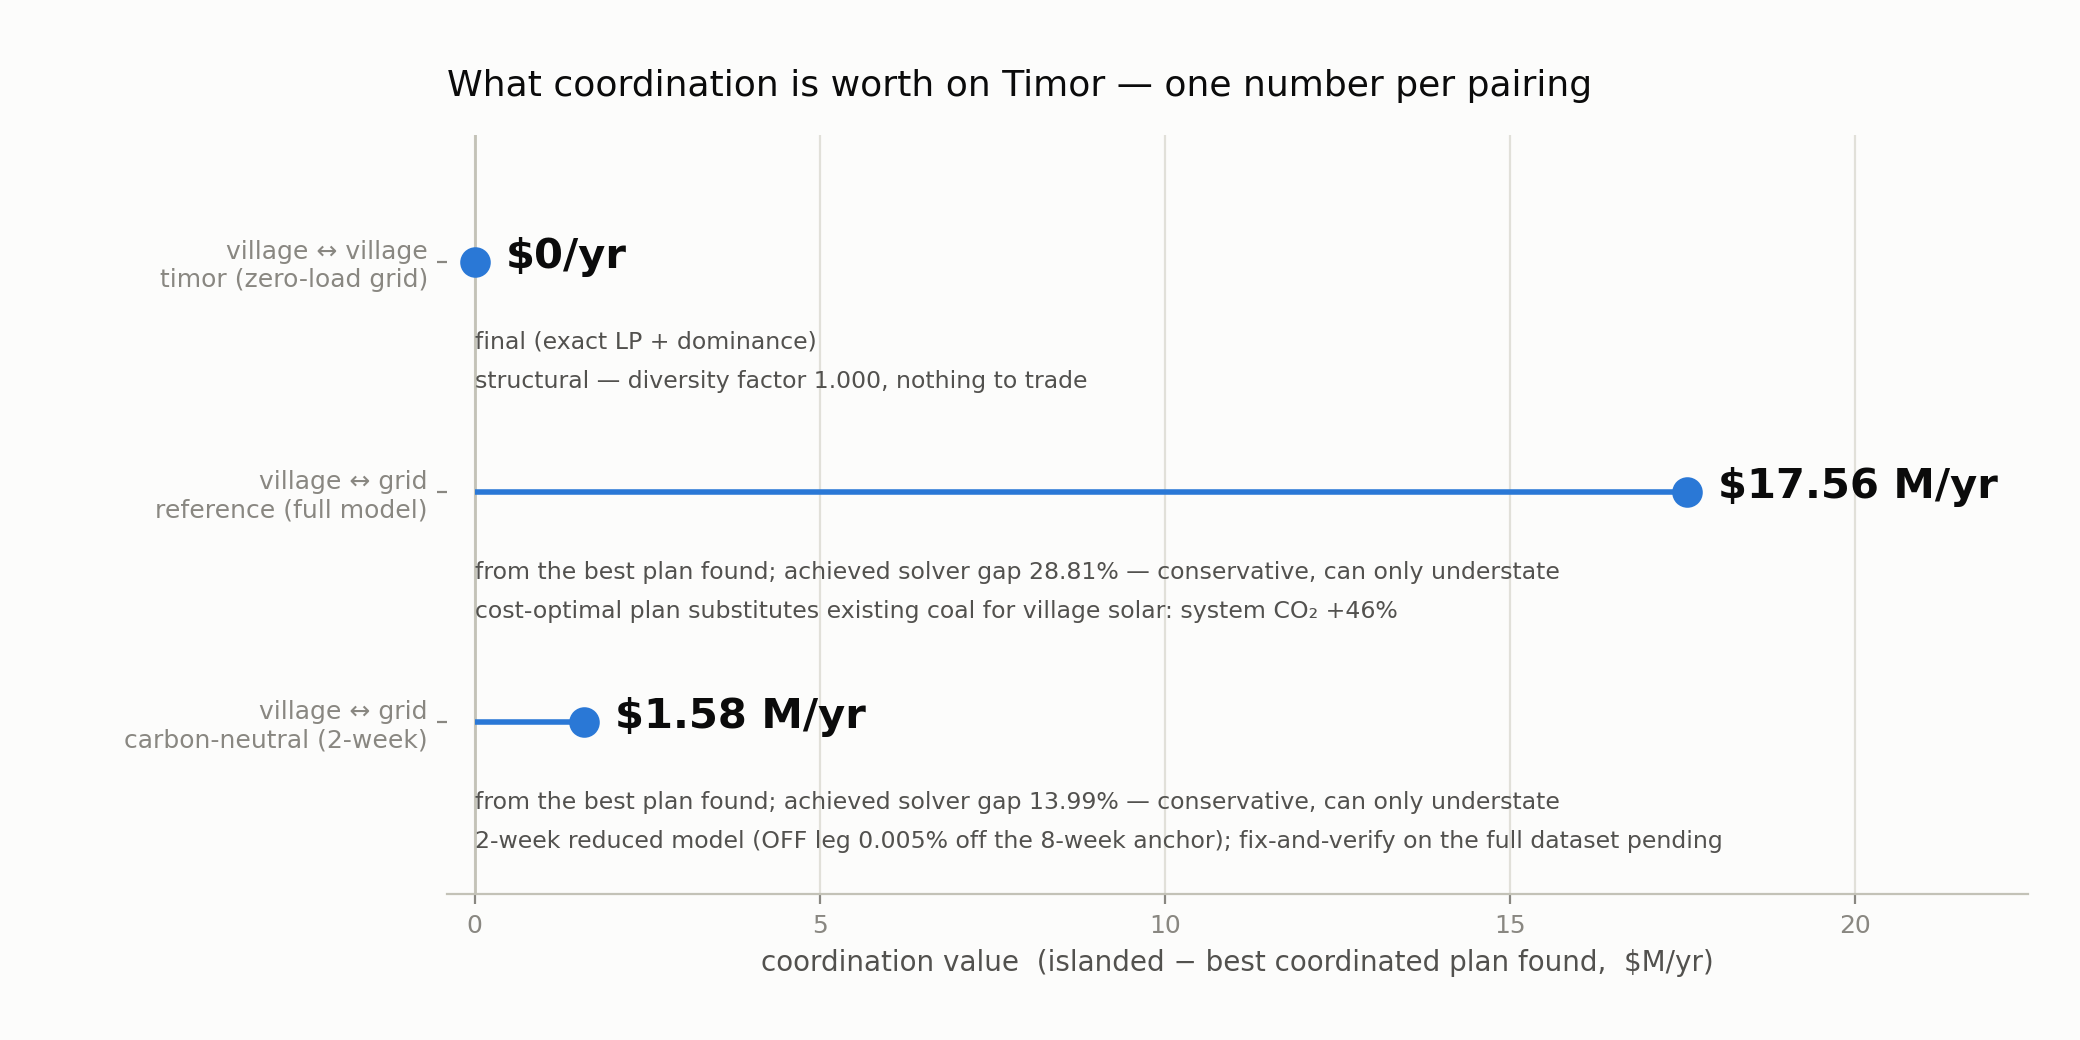
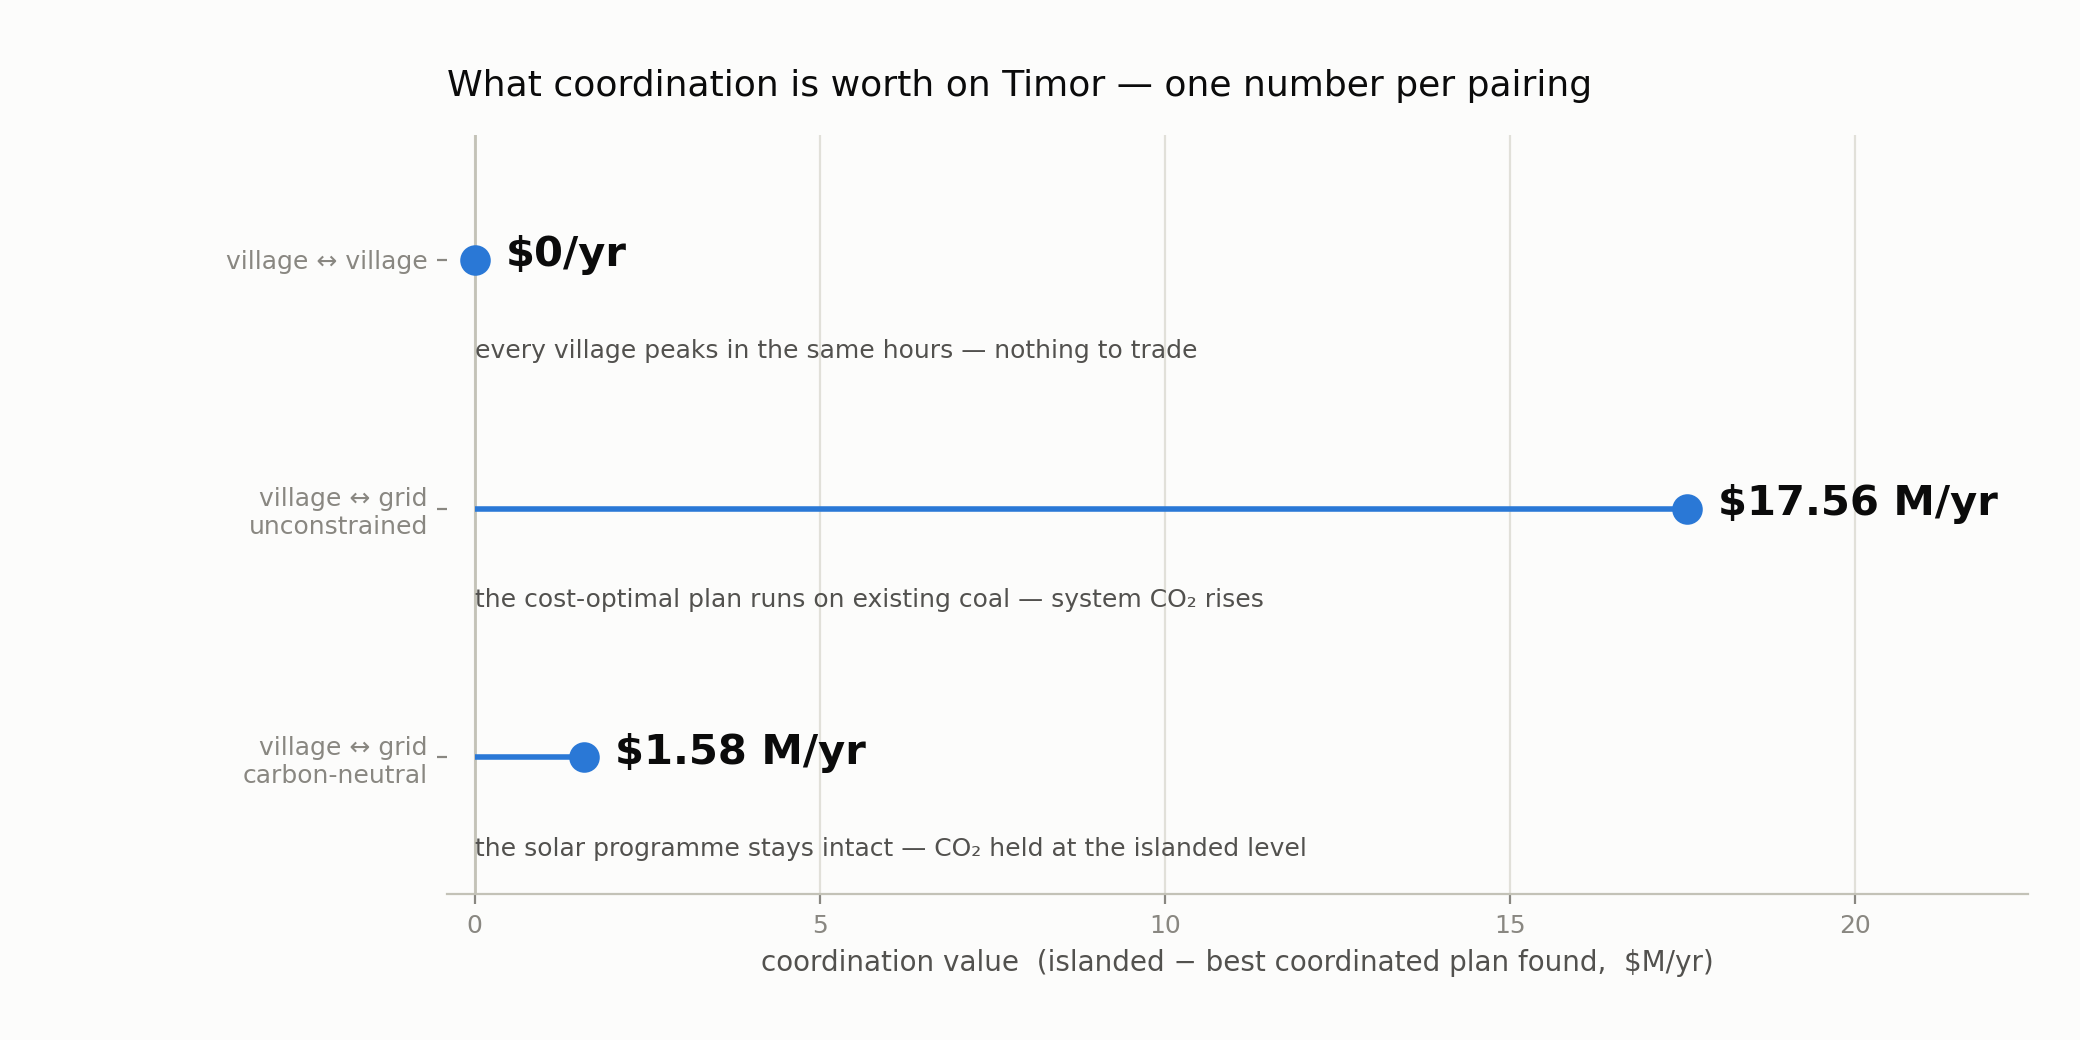
feat(report): deck-clean figures — all footnotes and model-form notes removed
Per the presentation decision: the figures carry no methodology text at all — no
achieved gaps, no 2-week-model tags, no "conservative/can only understate", no
construction notes, no source lines. Titles, the numbers, and at most one
plain-language content line per element remain; every caveat moves to the slide
deck and stays recorded in RUN_LOG.md and docs/figure_plan_timor.md, which are
unchanged and remain the audit trail.

- headline_coordination: per-row methodology sub-captions replaced with one
  plain content line each ("every village peaks in the same hours", "the
  cost-optimal plan runs on existing coal", "the solar programme stays intact");
  y-labels lose "(full model)" / "(2-week)"
- solar_buildout: per-bar gap lines and the 2-week tag removed
- cost_stack / recipe_and_diesel: run-id and "exact LP, no MIP gap" clauses out
  of the subtitles; captions removed
- coordination_bounds, diversity_panels, load_timing, three_regimes,
  cost_vs_co2, village_supply, connection_map, village_map: caption lines
  removed (bounds keeps its proven/unresolved legend — that is its content)
- fixed a literal backslash-dollar in the cost_stack subtitle (matplotlib
  renders a lone \$ raw; escaping is only needed when two $ would open a
  mathtext span)

All 12 rebuilt and visually inspected. Suite green (119 passed).

diff --git a/tools/plot_headline_coordination.py b/tools/plot_headline_coordination.py
@@ -150,24 +150,17 @@ def main(argv=None):
     ax.plot([0], [Y1], "o", ms=10, color=BLUE, zorder=4)
     ax.text(0.45, Y1 + 0.02, "$0/yr", fontsize=15, fontweight="bold",
             color=INK, va="center")
-    ax.text(0.0, Y1 - 0.30, "final (exact LP + dominance)",
-            fontsize=8.5, color=INK_2, va="top")
-    ax.text(0.0, Y1 - 0.47, "structural — diversity factor 1.000, nothing to trade",
-            fontsize=8.5, color=INK_2, va="top")
+    ax.text(0.0, Y1 - 0.32, "every village peaks in the same hours — nothing to trade",
+            fontsize=9, color=INK_2, va="top")
 
     # -- row 2: village <-> grid, reference --
     ax.hlines(Y2, 0, ref_val, color=BLUE, lw=2, zorder=3)
     ax.plot([ref_val], [Y2], "o", ms=10, color=BLUE, zorder=4)
     ax.text(ref_val + 0.45, Y2 + 0.02, f"${ref_val:.2f} M/yr",
             fontsize=15, fontweight="bold", color=INK, va="center")
-    ax.text(0.0, Y2 - 0.30,
-            f"from the best plan found; achieved solver gap {ref_gap:.2f}% — "
-            "conservative, can only understate",
-            fontsize=8.5, color=INK_2, va="top")
-    ax.text(0.0, Y2 - 0.47,
-            "cost-optimal plan substitutes existing coal for village solar: "
-            "system CO₂ +46%",
-            fontsize=8.5, color=INK_2, va="top")
+    ax.text(0.0, Y2 - 0.32,
+            "the cost-optimal plan runs on existing coal — system CO₂ rises",
+            fontsize=9, color=INK_2, va="top")
 
     # -- row 3: village <-> grid, carbon-neutral --
     if clean_landed:
@@ -175,11 +168,9 @@ def main(argv=None):
         ax.plot([clean_val], [Y3], "o", ms=10, color=BLUE, zorder=4)
         ax.text(clean_val + 0.45, Y3 + 0.02, f"${clean_val:.2f} M/yr",
                 fontsize=15, fontweight="bold", color=INK, va="center")
-        gap_txt = (f"achieved solver gap {clean_gap:.2f}% — conservative, "
-                   "can only understate" if clean_gap is not None
-                   else "gap unavailable — solver log missing a final Best objective line")
-        ax.text(0.0, Y3 - 0.30, f"from the best plan found; {gap_txt}",
-                fontsize=8.5, color=INK_2, va="top")
+        ax.text(0.0, Y3 - 0.32,
+                "the solar programme stays intact — CO₂ held at the islanded level",
+                fontsize=9, color=INK_2, va="top")
     else:
         ax.hlines(Y3, 0, clean_val, color=MUTED, lw=1.4,
                   linestyle=(0, (4, 3)), zorder=3)
@@ -188,22 +179,18 @@ def main(argv=None):
         ax.text(clean_val + 0.45, Y3 + 0.02,
                 f"solving — floor ${clean_val:.1f} M/yr so far",
                 fontsize=12, color=MUTED, va="center")
-        ax.text(0.0, Y3 - 0.30,
-                "incumbent still improving; the floor can only rise",
-                fontsize=8.5, color=MUTED, va="top")
-    ax.text(0.0, Y3 - 0.47,
-            "2-week reduced model (OFF leg 0.005% off the 8-week anchor); "
-            "fix-and-verify on the full dataset pending",
-            fontsize=8.5, color=MUTED if not clean_landed else INK_2, va="top")
+        ax.text(0.0, Y3 - 0.32,
+                "still solving — the floor can only rise",
+                fontsize=9, color=MUTED, va="top")
 
     # axes / chrome
     ax.set_yticks([Y3, Y2, Y1])
-    ax.set_yticklabels(["village ↔ grid\ncarbon-neutral (2-week)",
-                        "village ↔ grid\nreference (full model)",
-                        "village ↔ village\ntimor (zero-load grid)"],
+    ax.set_yticklabels(["village ↔ grid\ncarbon-neutral",
+                        "village ↔ grid\nunconstrained",
+                        "village ↔ village"],
                        fontsize=10, color=INK)
     ax.set_xlim(-0.4, 22.5)
-    ax.set_ylim(-0.75, 2.55)
+    ax.set_ylim(-0.55, 2.50)
     ax.set_xticks([0, 5, 10, 15, 20])
     ax.set_xlabel("coordination value  (islanded − best coordinated plan found,  $M/yr)",
                   fontsize=10, color=INK_2)

diff --git a/tools/plot_solar_buildout.py b/tools/plot_solar_buildout.py
@@ -87,7 +87,7 @@ def main(argv=None):
         dict(label="coordinated, unconstrained\n(DMO coal available)",
              run=os.path.join(R, "gridvillage_timor__marketfix_2030_reference__ucrelax"),
              note=None, gap=achieved_gap(os.path.join(REPO, "jobs", "ucr_marketfix_gridvillage", "solve.log"))),
-        dict(label="coordinated, carbon-neutral\n(CO2 capped at islanded level · 2-week model)",
+        dict(label="coordinated, carbon-neutral\n(CO2 capped at islanded level)",
              run=os.path.join(R, "gridvillage_timor__marketfix2w_2030_clean"),
              note="2-week model; fix-and-verify pending",
              gap=achieved_gap(os.path.join(REPO, "jobs", "w2c_gridvillage", "solve.log"))),
@@ -115,8 +115,6 @@ def main(argv=None):
         pct100 = total / 100_000 * 100
         kwhh = total * 1000 / HOUSEHOLDS
         sub = f"{pct100:.2f}% of 100 GW · {kwhh:.2f} kW/household"
-        if r["gap"] is not None:
-            sub += f"\nachieved gap {r['gap']:.1f}% — conservative"
         ax.text(i, total + 34, f"{total:,.0f} MW", ha="center", va="bottom",
                 fontsize=13, color=INK, fontweight="bold")
         ax.text(i, total + 28, sub, ha="center", va="top", fontsize=8, color=INK2)
@@ -138,10 +136,6 @@ def main(argv=None):
 
     ax.set_title("Solar buildout on Timor under three planning regimes",
                  fontsize=13, color=INK, loc="left", pad=12)
-    fig.text(0.08, 0.025,
-             "the middle bar is the warning: with cheap coal and no carbon constraint, "
-             "least-cost coordination dismantles ~90% of the village solar programme",
-             fontsize=7.5, color=MUTED, va="bottom")
 
     os.makedirs(os.path.dirname(args.out), exist_ok=True)
     fig.savefig(args.out, facecolor=SURFACE)

diff --git a/tools/plot_coordination_bounds.py b/tools/plot_coordination_bounds.py
@@ -150,8 +150,7 @@ def main(argv=None):
 
     # mechanism notes (secondary ink)
     ax.text(0.0, 1 - 0.52, "value driven by cheap existing coal, not load "
-            "complementarity — the grid series is a netting construction "
-            "(see load_timing)", fontsize=8.5, color=INK_2, va="top")
+            "complementarity", fontsize=8.5, color=INK_2, va="top")
     ax.text(0.0, 0 - 0.52, "village peaks are simultaneous (diversity factor 1.000)",
             fontsize=8.5, color=INK_2, va="top")
 
@@ -178,10 +177,6 @@ def main(argv=None):
 
     ax.set_title("Coordination value: what is proven so far",
                  fontsize=13, color=INK, loc="left", pad=14)
-    fig.text(0.20, 0.115,
-             "UC relaxed in both legs (cancels in the delta); wire decisions exact · "
-             "upper bound is the LP relaxation — true value likely well below it",
-             fontsize=7, color=MUTED, va="top")
 
     os.makedirs(os.path.dirname(args.out), exist_ok=True)
     fig.savefig(args.out, facecolor=SURFACE)

diff --git a/tools/plot_cost_stack.py b/tools/plot_cost_stack.py
@@ -190,15 +190,10 @@ def main(argv=None):
              "with solar attached", fontsize=13.5, color=INK, va="top",
              fontweight="semibold")
     fig.text(0.055, 0.878,
-             f"{src} · 780 villages, islanded (coordination OFF) · "
-             f"total ${tot:.2f} M/yr — exact LP optimum, no MIP gap{status}",
+             f"780 villages, islanded · total ${tot:.2f} M/yr",
              fontsize=9.5, color=INK_2, va="top")
 
     # ---- caption: the two must-carry caveats
-    fig.text(0.055, 0.175,
-             "battery POWER capex is booked inside Fixed_Costs_Village; attributed by "
-             "component here — reconstruction closes on Total_Costs to 12 s.f.",
-             fontsize=8, color=MUTED, va="top")
 
     os.makedirs(os.path.dirname(args.out), exist_ok=True)
     fig.savefig(args.out, facecolor=SURFACE)

diff --git a/tools/plot_recipe_and_diesel.py b/tools/plot_recipe_and_diesel.py
@@ -239,12 +239,7 @@ def main(argv=None):
     fig.text(0.06, 0.965, "One kit fits 780 villages",
              fontsize=14, color=INK, va="top", fontweight="bold")
     fig.text(0.06, 0.922, "and diesel does not disappear — it shrinks to a "
-             "3% insurance policy   ·   islanded exact-LP plan, no MIP gap "
-             "on this leg", fontsize=9.5, color=INK_2, va="top")
-    fig.text(0.06, 0.145,
-             "sizing tightness is partly input homogeneity: one solar-profile family, "
-             "and 621 of 780 villages share a single demand archetype",
-             fontsize=8, color=MUTED, va="top")
+             "3% insurance policy", fontsize=9.5, color=INK_2, va="top")
 
     os.makedirs(os.path.dirname(args.out) or ".", exist_ok=True)
     fig.savefig(args.out, facecolor=SURFACE)

diff --git a/tools/plot_diversity_panels.py b/tools/plot_diversity_panels.py
@@ -222,13 +222,6 @@ def main(argv=None):
                  "village\u2194grid one is a modelling construction",
                  fontsize=13.5, color=INK, x=0.065, y=0.965, ha="left")
 
-    fig.text(0.065, 0.155,
-             "panel (a) reflects archetype synthesis (621 of 780 villages share one demand "
-             "archetype), not measured behaviour\n"
-             "panel (b): the grid series is provincial load MINUS village load, so its "
-             "anti-correlation is inherited from that subtraction — the two are +0.32 "
-             "correlated before it",
-             fontsize=7.5, color=MUTED, va="top", linespacing=1.6)
 
     os.makedirs(os.path.dirname(args.out), exist_ok=True)
     fig.savefig(args.out, facecolor=SURFACE)

diff --git a/tools/plot_connection_map.py b/tools/plot_connection_map.py
@@ -63,10 +63,6 @@ def main(argv=None):
     ax.text(0.98, 0.98, f"median substation distance\nconnected {med_c:.1f} km  ·  "
             f"islanded {med_i:.1f} km", transform=ax.transAxes, fontsize=9.5,
             color=INK, ha="right", va="top")
-    fig.text(0.07, 0.02,
-             f"dot area = households · {miss} of 780 villages lack coordinates and are "
-             "not drawn · pattern from the best plan (gap 28.8%); the distance gradient is robust",
-             fontsize=7.5, color=MUTED, va="bottom")
     os.makedirs(os.path.dirname(args.out), exist_ok=True)
     fig.savefig(args.out, facecolor=SURFACE)
     print(f"written: {args.out}  (drawn {len(have)}, missing {miss}; medians {med_c:.1f}/{med_i:.1f} km)")

diff --git a/tools/plot_village_supply.py b/tools/plot_village_supply.py
@@ -82,10 +82,6 @@ def main(argv=None):
     ax.legend(loc="lower center", bbox_to_anchor=(0.5, 1.005), ncol=3,
               frameon=False, fontsize=9)
     ax.set_title("Who powers the villages", fontsize=13, color=INK, loc="left", pad=30)
-    fig.text(0.09, 0.02,
-             "net grid flow quoted (gross trade is allocation-degenerate at 0/0 prices) · "
-             "battery discharge excluded — it is recycled solar, not primary supply",
-             fontsize=7.5, color=MUTED, va="bottom")
     os.makedirs(os.path.dirname(args.out), exist_ok=True)
     fig.savefig(args.out, facecolor=SURFACE)
     print(f"written: {args.out}")

diff --git a/tools/plot_village_map.py b/tools/plot_village_map.py
@@ -130,11 +130,6 @@ def main():
                       f"\N{EN DASH} dot area \N{PROPORTIONAL TO} households",
             transform=ax.transAxes, color=INK_2, fontsize=10.5)
 
-    caption = (f"not on the map: {len(hidden)} of 780 villages "
-               f"({100 * hh_hidden / hh_total:.1f}% of households) lack coordinates "
-               "— modelled and fully costed in every run")
-    fig.text(0.055, 0.012, caption, color=INK_2, fontsize=8.5, va="bottom",
-             linespacing=1.45)
 
     fig.subplots_adjust(left=0.075, right=0.97, top=0.90, bottom=0.16)
     os.makedirs(os.path.dirname(args.out), exist_ok=True)

diff --git a/tools/plot_three_regimes.py b/tools/plot_three_regimes.py
@@ -113,10 +113,6 @@ def main(argv=None):
              f"{co2[1]-co2[0]:,.0f} kt/yr more coal · under a carbon cap it saves "
              f"\\${cost[0]-cost[2]:.1f} M/yr with the solar fleet intact",
              fontsize=10, color=INK2)
-    fig.text(0.05, 0.045,
-             "2-week model, all three legs · coordinated bars are best feasible plans "
-             "(achieved gaps 26.3% / 14.0% — conservative)",
-             fontsize=7.5, color=MUTED, va="bottom")
 
     os.makedirs(os.path.dirname(args.out), exist_ok=True)
     fig.savefig(args.out, facecolor=SURFACE)

diff --git a/tools/plot_load_timing.py b/tools/plot_load_timing.py
@@ -146,10 +146,6 @@ def main(argv=None):
     ax.set_title("When villages and the grid need power — two constructions "
                  "of the same grid series",
                  fontsize=13, color=INK, loc="left", pad=34)
-    fig.text(0.08, 0.025,
-             "the two constructions bracket the truth · the coordination headline "
-             "survives both: combined load never exceeds the firm fleet",
-             fontsize=7.5, color=MUTED, va="bottom")
 
     os.makedirs(os.path.dirname(args.out), exist_ok=True)
     fig.savefig(args.out, facecolor=SURFACE)

diff --git a/tools/plot_cost_vs_co2.py b/tools/plot_cost_vs_co2.py
@@ -106,10 +106,6 @@ def main(argv=None):
     ax.text(0.0, 1.045, "three plans for the same 780 villages; "
             "down-left is better", transform=ax.transAxes,
             fontsize=10, color=INK2)
-    fig.text(0.10, 0.025,
-             "2-week model · coordinated points are best feasible plans "
-             "(achieved gaps 26.3% / 14.0% — the savings can only understate)",
-             fontsize=7.5, color=MUTED, va="bottom")
 
     os.makedirs(os.path.dirname(args.out), exist_ok=True)
     fig.savefig(args.out, facecolor=SURFACE)
